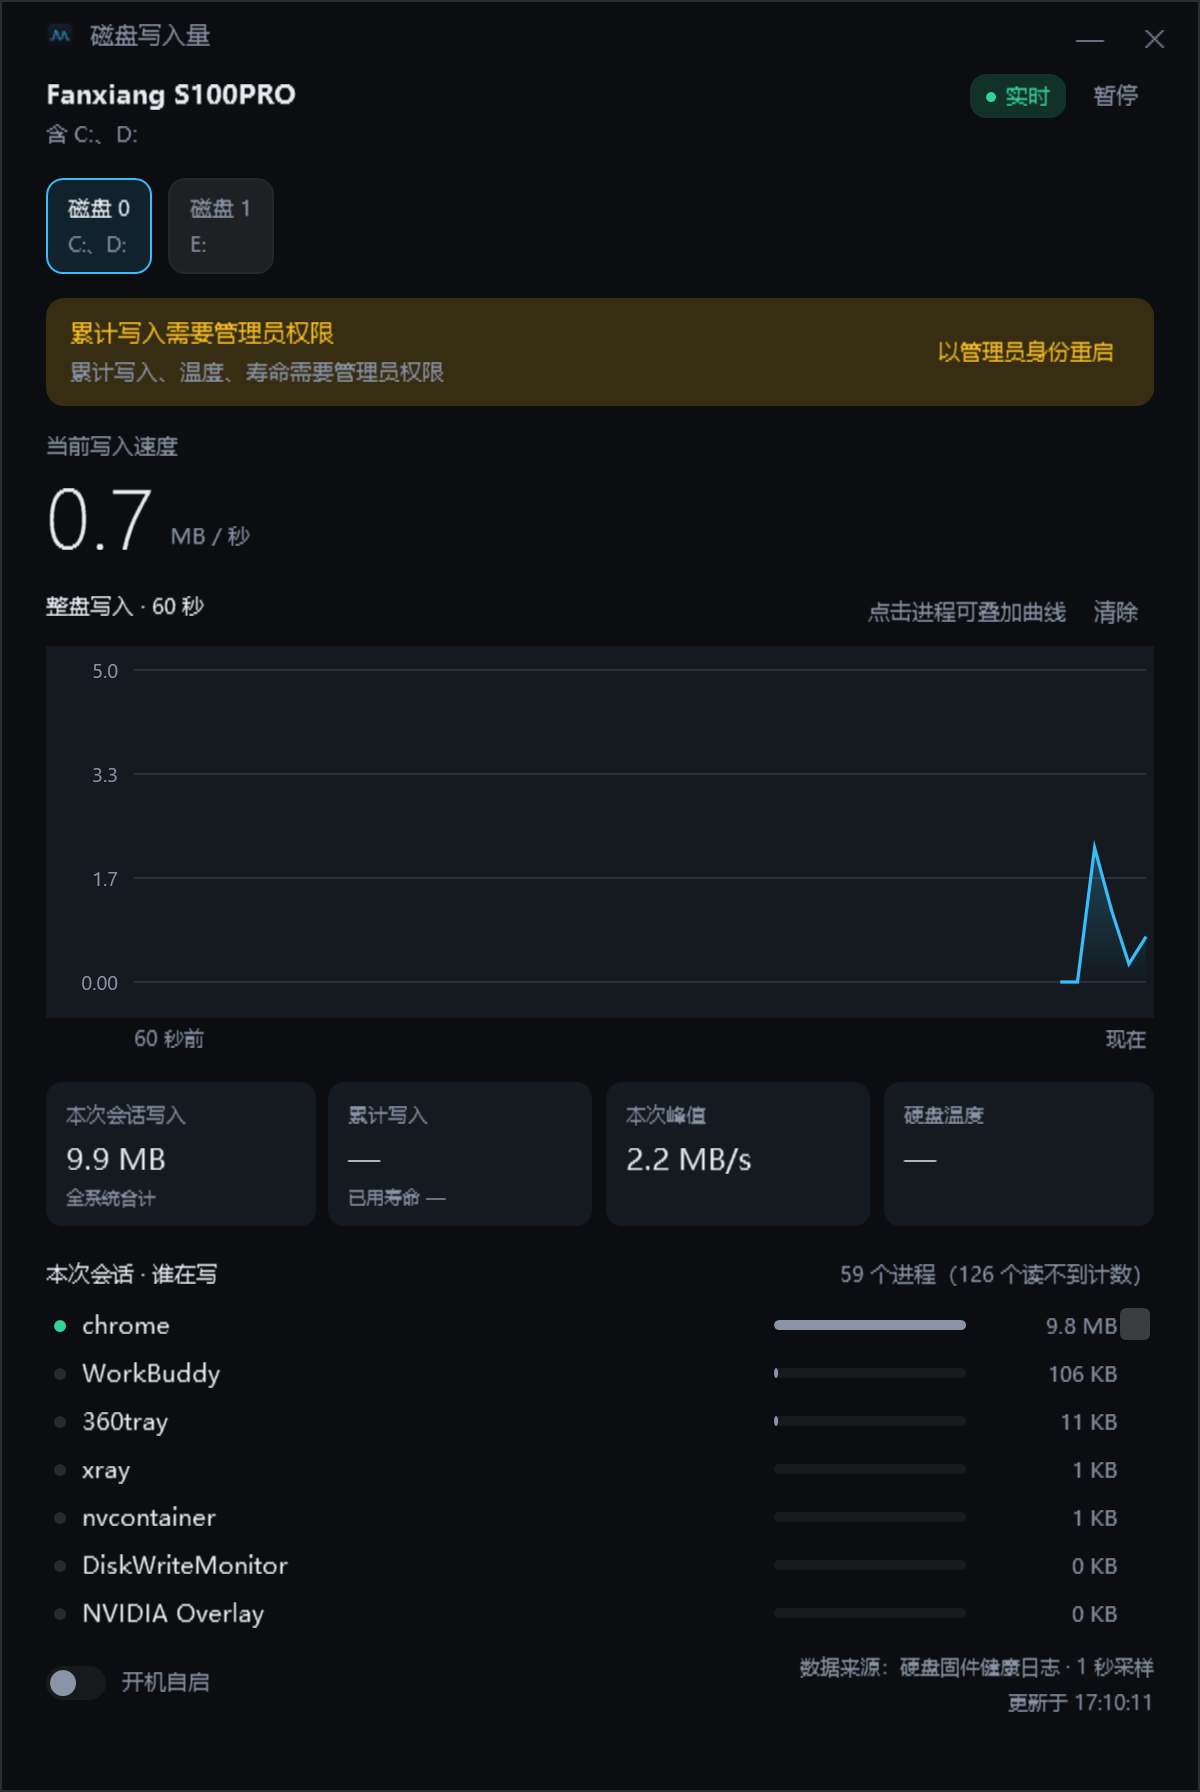
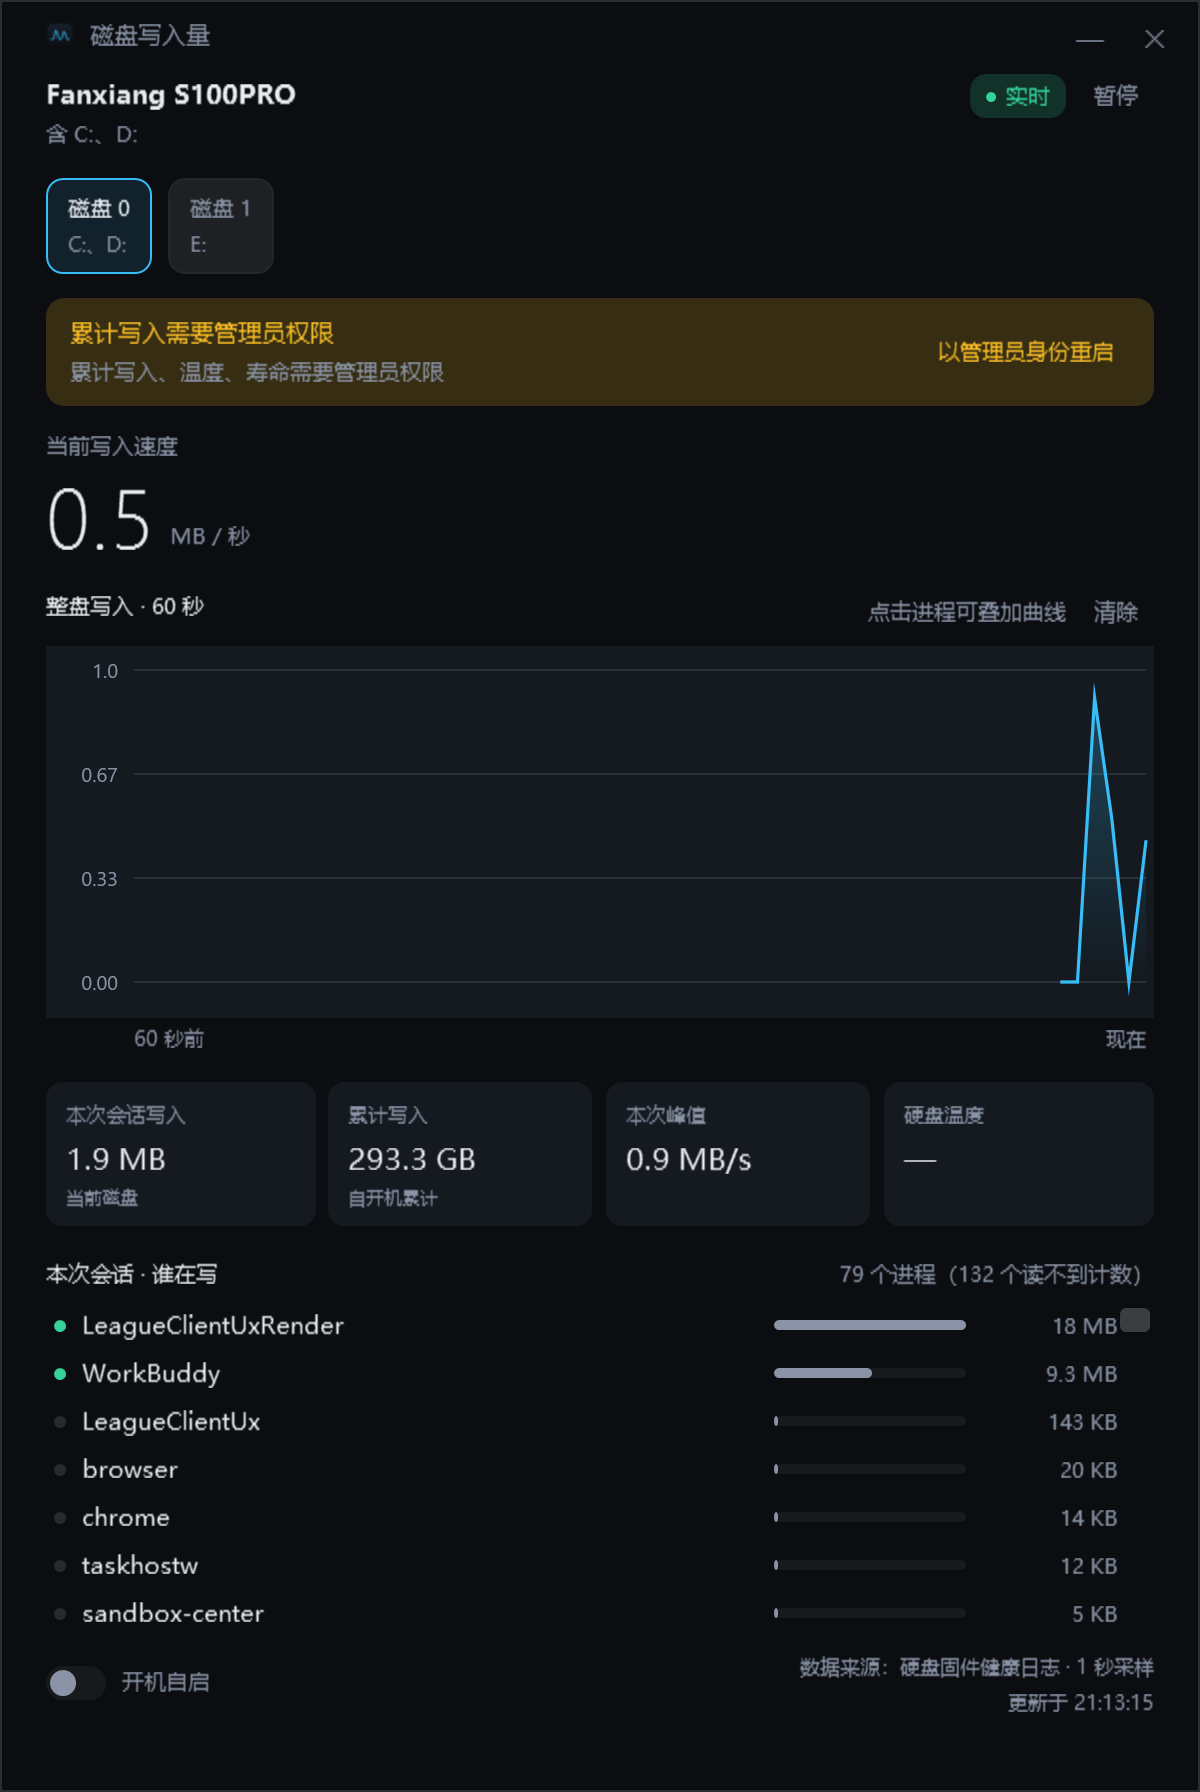
按磁盘精确统计会话写入量
改用 PhysicalDisk 计数器的原始累计字节（PdhGetRawCounterArray 的 FirstValue）做差，
同时得到速率与会话量，取代之前误差 0.5~3 倍的速率积分方案。

- 会话写入量按磁盘分开统计，切换磁盘只换显示对象
- 累计写入在固件值不可信时自动降级显示「自开机累计」
- 修正 PDH_RAW_COUNTER 的 FirstValue 偏移（x64 下为 24，此前误写 16 导致读出垃圾）
- 文档补充实测：进程计数器对 IPC 型进程虚高约 8 倍，不能用于估算磨损

diff --git a/src/DiskWriteMonitor/MainWindow.xaml b/src/DiskWriteMonitor/MainWindow.xaml
@@ -170,7 +170,7 @@
                             <TextBlock Text="累计写入" Style="{StaticResource Caption}" FontSize="10" />
                             <TextBlock Text="{Binding TotalText}" Style="{StaticResource Body}"
                                        FontSize="15" Margin="0,4,0,0" />
-                            <TextBlock Text="{Binding UsedCaption}" Style="{StaticResource Caption}"
+                            <TextBlock Text="{Binding TotalCaption}" Style="{StaticResource Caption}"
                                        FontSize="9" Margin="0,2,0,0" />
                         </StackPanel>
                     </Border>

diff --git a/src/DiskWriteMonitor/Core/WriteMonitor.cs b/src/DiskWriteMonitor/Core/WriteMonitor.cs
@@ -88,7 +88,7 @@ public sealed class WriteMonitor : INotifyPropertyChanged
     private readonly Dictionary<string, ProcRow> _rowCache = new(StringComparer.OrdinalIgnoreCase);
     private readonly List<string> _selected = new();
 
-    /// <summary>本次会话全系统写入字节（Σ 所有进程增量，精确值）</summary>
+    /// <summary>本次会话全系统写入字节（仅在没有按盘数据时兜底）</summary>
     private double _sessionTotalBytes;
 
     /// <summary>每块盘各存一份会话状态，切换磁盘只换显示，不重置任何一块的数据</summary>
@@ -120,12 +120,24 @@ public sealed class WriteMonitor : INotifyPropertyChanged
 
     private sealed class DiskSession
     {
+        /// <summary>本次会话该盘写入字节（由自开机累计字节做差，精确）</summary>
+        public double SessionBytes;
+
+        /// <summary>自开机该盘累计写入字节</summary>
+        public ulong BootBytes;
+
         public double Peak;
         public double LastRate;
         public ulong TotalBytes;
+        public bool FirmwareReliable;
         public int TemperatureC = -1;
         public byte Used;
         public readonly Queue<double> History = new();
+
+        // raw 累计字节的基线，用来算会话量与速率
+        public bool HasRaw;
+        public long RawFirst;
+        public long RawPrev;
     }
 
     private DiskSession Current =>
@@ -201,15 +213,16 @@ public sealed class WriteMonitor : INotifyPropertyChanged
             DiskHealth? health = null;
             if (Disk is not null) health = SmartReader.Read(Disk);
 
-            // 一次采集覆盖所有物理磁盘：所有盘的会话量同时累计，切换时不会断档
+            // 一次采集覆盖所有物理磁盘；raw 是自开机累计字节（精确），rates 仅作兜底
+            var raws = new Dictionary<int, long>();
             var rates = new Dictionary<int, double>();
-            var rateOk = _rateCounter is not null && _rateCounter.TryReadAll(out rates);
+            var rateOk = _rateCounter is not null && _rateCounter.TryReadAll(out raws, out rates);
 
             var procs = ProcessSampler.Snapshot(out var total, out var failed);
             var now = DateTime.Now;
 
             Application.Current?.Dispatcher.BeginInvoke(
-                new Action(() => Apply(health, rateOk, rates, procs, total, failed, now)));
+                new Action(() => Apply(health, rateOk, raws, rates, procs, total, failed, now)));
         }
         catch
         {
@@ -221,13 +234,13 @@ public sealed class WriteMonitor : INotifyPropertyChanged
         }
     }
 
-    private void Apply(DiskHealth? health, bool rateOk, Dictionary<int, double> rates,
-        Dictionary<int, ProcWrite> procs, int total, int failed, DateTime now)
+    private void Apply(DiskHealth? health, bool rateOk, Dictionary<int, long> raws,
+        Dictionary<int, double> rates, Dictionary<int, ProcWrite> procs, int total, int failed, DateTime now)
     {
         var dt = _hasBaseline ? Math.Clamp((now - _prevTime).TotalSeconds, 0.2, 10.0) : 1.0;
         if (dt <= 0) dt = 1.0;
 
-        ApplyDisk(health, rateOk, rates, now, dt);
+        ApplyDisk(health, rateOk, raws, rates, now, dt);
         ApplyProcesses(procs, now, dt, total, failed);
 
         LastUpdateText = "更新于 " + Fmt.Time(now);
@@ -235,20 +248,50 @@ public sealed class WriteMonitor : INotifyPropertyChanged
         RaiseAll();
     }
 
-    private void ApplyDisk(DiskHealth? health, bool rateOk, Dictionary<int, double> rates,
-        DateTime now, double dt)
+    private void ApplyDisk(DiskHealth? health, bool rateOk, Dictionary<int, long> raws,
+        Dictionary<int, double> rates, DateTime now, double dt)
     {
         _prevTime = now;
         _hasBaseline = true;
 
-        if (rateOk)
+        if (rateOk && raws.Count > 0)
         {
-            // 所有盘一起累计：切走再切回来，数字是连续的
+            // 精确路径：自开机累计字节做差，同时得到会话量与速率
+            foreach (var (number, cumulative) in raws)
+            {
+                if (!_sessions.TryGetValue(number, out var each)) continue;
+
+                each.BootBytes = (ulong)cumulative;
+
+                if (!each.HasRaw)
+                {
+                    each.HasRaw = true;
+                    each.RawFirst = cumulative;
+                    each.RawPrev = cumulative;
+                    continue;
+                }
+
+                var delta = cumulative >= each.RawPrev ? cumulative - each.RawPrev : 0;
+                each.RawPrev = cumulative;
+                each.SessionBytes = cumulative >= each.RawFirst ? cumulative - each.RawFirst : 0;
+                each.LastRate = delta / 1e6 / dt;
+                if (each.LastRate > each.Peak) each.Peak = each.LastRate;
+            }
+
+            PushHistory(Current, Current.LastRate);
+
+            StatusLevel = 0;
+            StatusText = "实时";
+        }
+        else if (rateOk && rates.Count > 0)
+        {
+            // 兜底路径：raw 读失败时退回 PDH 的速率，会话量靠积分（精度差，界面会标注）
             foreach (var (number, bytesPerSecond) in rates)
             {
                 if (!_sessions.TryGetValue(number, out var each)) continue;
 
                 each.LastRate = bytesPerSecond / 1e6;
+                each.SessionBytes += bytesPerSecond * dt;
                 if (each.LastRate > each.Peak) each.Peak = each.LastRate;
             }
 
@@ -285,6 +328,7 @@ public sealed class WriteMonitor : INotifyPropertyChanged
             case DiskHealthStatus.Ok:
                 session.TemperatureC = health.TemperatureC;
                 session.Used = health.PercentageUsed;
+                session.FirmwareReliable = health.FirmwareReliable;
                 session.TotalBytes = health.FirmwareReliable ? health.TotalBytes : 0;
                 StatusMessage = health.FirmwareReliable ? string.Empty : health.Message;
                 ShowPermissionBar = false;
@@ -569,13 +613,21 @@ public sealed class WriteMonitor : INotifyPropertyChanged
     public string RateValue => Fmt.Rate(CurrentRate).Value;
     public string RateUnit => Fmt.Rate(CurrentRate).Unit;
 
-    /// <summary>本次会话全系统写入：Σ 所有进程的精确增量，与选中的磁盘无关</summary>
-    public double SessionBytes => _sessionTotalBytes;
+    /// <summary>当前选中磁盘的本次会话写入量（按盘统计，精确）</summary>
+    public double SessionBytes => Current.HasRaw ? Current.SessionBytes : _sessionTotalBytes;
     public string SessionText => Fmt.Bytes(SessionBytes);
-    public string SessionCaption => "全系统合计";
+    public string SessionCaption => Current.HasRaw ? "当前磁盘" : "全系统合计";
 
-    public double TotalBytes => Current.TotalBytes;
+    /// <summary>
+    /// 固件累计写入（出厂至今）。固件值不可信时（如廉价 SATA 盘）退回"自开机累计"，
+    /// 至少还有一个可用的量级参考，而不是显示一串破折号。
+    /// </summary>
+    public double TotalBytes => Current.FirmwareReliable ? Current.TotalBytes : Current.BootBytes;
     public string TotalText => TotalBytes > 0 ? Fmt.Bytes(TotalBytes) : "—";
+
+    public string TotalCaption => Current.FirmwareReliable
+        ? (PercentageUsed > 0 ? $"出厂至今 · 已用寿命 {PercentageUsed}%" : "出厂至今")
+        : "自开机累计";
 
     public string PeakText => Fmt.RateText(Current.Peak);
 
@@ -584,7 +636,11 @@ public sealed class WriteMonitor : INotifyPropertyChanged
 
     public byte PercentageUsed => Current.Used;
     public string UsedText => PercentageUsed > 0 ? PercentageUsed + " %" : "—";
-    public string UsedCaption => PercentageUsed > 0 ? $"已用寿命 {PercentageUsed}%" : "已用寿命 —";
+
+    /// <summary>调试用：每块盘的自开机累计 / 会话量 / 速率，便于和系统计数器对账</summary>
+    public string DiskDebugText => string.Join(" | ", _sessions
+        .OrderBy(kv => kv.Key)
+        .Select(kv => $"d{kv.Key} boot={kv.Value.BootBytes} sess={(long)kv.Value.SessionBytes} rate={kv.Value.LastRate:F3}"));
 
     public string ProcessCountText { get; private set; } = "0 个进程";
 
@@ -609,6 +665,7 @@ public sealed class WriteMonitor : INotifyPropertyChanged
         Raise(nameof(SessionCaption));
         Raise(nameof(TotalBytes));
         Raise(nameof(TotalText));
+        Raise(nameof(TotalCaption));
         Raise(nameof(PeakText));
         Raise(nameof(TemperatureC));
         Raise(nameof(TempText));
@@ -616,7 +673,6 @@ public sealed class WriteMonitor : INotifyPropertyChanged
         Raise(nameof(UsedText));
         Raise(nameof(ProcessCountText));
         Raise(nameof(ProcessSectionTitle));
-        Raise(nameof(UsedCaption));
         Raise(nameof(LastUpdateText));
         Raise(nameof(StatusLevel));
         Raise(nameof(StatusText));

diff --git a/src/DiskWriteMonitor/Core/DiskRateCounter.cs b/src/DiskWriteMonitor/Core/DiskRateCounter.cs
@@ -16,6 +16,22 @@ public sealed class DiskRateCounter : IDisposable
     /// </summary>
     private const uint PdhFmtDouble = 0x00000200;
 
+    /// <summary>
+    /// PDH_RAW_COUNTER_ITEM_W 在 x64 下的布局：
+    ///   szName            offset 0   (8)
+    ///   PDH_RAW_COUNTER   offset 8
+    ///     CStatus         +0  (4)
+    ///     FILETIME        +4  (8)  -> 到 +12
+    ///     FirstValue      +16 (8)  -> 但因为 LONGLONG 要 8 字节对齐，实际在 +16，
+    ///                                 合起来就是 item 内的 offset 24
+    ///     SecondValue     +24
+    ///     MultiCount      +32
+    ///   PDH_RAW_COUNTER 总长 40（含尾部对齐），所以 item 步长 = 8 + 40 = 48
+    /// 上一版把 FirstValue 写成 offset 16（即 TimeStamp 区域），读出来自然是垃圾。
+    /// </summary>
+    private const int RawItemStride = 48;
+    private const int RawFirstValueOffset = 24;
+
     private IntPtr _query;
     private IntPtr _counter;
     private readonly bool _ready;
@@ -34,16 +50,43 @@ public sealed class DiskRateCounter : IDisposable
     public bool IsReady => _ready;
 
     /// <summary>
-    /// 一次采集拿回所有物理磁盘的写入速率（字节/秒），键为磁盘号。
-    /// 所有盘同时采集，切换磁盘时各盘的会话累计才不会断档。
-    /// 注：会话累计量由速率 × 时间间隔积分得到，1 秒采样下持续写入准确，
-    /// 极短的写入爆发可能少计 —— 这是 perfmon 速率计数器本身的粒度限制。
+    /// 一次采集同时给出两套数据：
+    ///   cumulative —— 自开机累计写入字节（raw FirstValue，精确，做差即得速率和会话量）
+    ///   rates      —— PDH 算好的字节/秒（raw 读失败时兜底）
     /// </summary>
-    public bool TryReadAll(out Dictionary<int, double> rates)
+    public bool TryReadAll(out Dictionary<int, long> cumulative, out Dictionary<int, double> rates)
     {
+        cumulative = new Dictionary<int, long>();
         rates = new Dictionary<int, double>();
         if (!_ready) return false;
         if (PdhCollectQueryData(_query) != 0) return false;
+
+        // ---- 原始累计字节（精确来源）----
+        var rawSize = 0u;
+        PdhGetRawCounterArrayW(_counter, ref rawSize, out _, IntPtr.Zero);
+        if (rawSize > 0)
+        {
+            var rawBuffer = Marshal.AllocHGlobal((int)rawSize);
+            try
+            {
+                if (PdhGetRawCounterArrayW(_counter, ref rawSize, out var rawCount, rawBuffer) == 0)
+                {
+                    for (var i = 0; i < rawCount; i++)
+                    {
+                        var item = rawBuffer + i * RawItemStride;
+                        var name = Marshal.PtrToStringUni(Marshal.ReadIntPtr(item)) ?? string.Empty;
+                        if (!TryParseDiskNumber(name, out var number)) continue;
+
+                        var first = Marshal.ReadInt64(item, RawFirstValueOffset);
+                        if (first > 0 && first < long.MaxValue / 2) cumulative[number] = first;
+                    }
+                }
+            }
+            finally
+            {
+                Marshal.FreeHGlobal(rawBuffer);
+            }
+        }
 
         // 第一次调用只用来探查需要多大缓冲，必然返回 PDH_MORE_DATA，不能当成失败
         var size = 0u;
@@ -75,8 +118,12 @@ public sealed class DiskRateCounter : IDisposable
             Marshal.FreeHGlobal(buffer);
         }
 
-        return rates.Count > 0;
+        return cumulative.Count > 0 || rates.Count > 0;
     }
+
+    [DllImport("pdh.dll", CharSet = CharSet.Unicode)]
+    private static extern uint PdhGetRawCounterArrayW(
+        IntPtr counter, ref uint bufferSize, out uint itemCount, IntPtr buffer);
 
     /// <summary>实例名形如 "0 c: d:"、"1 e:"、"_total"，取空格前那段转成磁盘号。</summary>
     private static bool TryParseDiskNumber(string instanceName, out int number)

diff --git a/src/DiskWriteMonitor/App.xaml.cs b/src/DiskWriteMonitor/App.xaml.cs
@@ -153,7 +153,8 @@ public partial class App : Application
                 "  peak=" + _monitor?.PeakText +
                 "  temp=" + _monitor?.TempText +
                 "  total=" + _monitor?.TotalText,
-                "rates(MB/s)=" + _monitor?.RateHistoryText
+                "rates(MB/s)=" + _monitor?.RateHistoryText,
+                "disks=" + _monitor?.DiskDebugText
             };
 
             if (_monitor is not null)

diff --git a/README.md b/README.md
@@ -19,16 +19,20 @@
 
 | 指标 | Windows 实现 | 口径 | 需要管理员 |
 | --- | --- | --- | --- |
-| 速率 / 本次会话 / 峰值 | PDH `\PhysicalDisk(*)\Disk Write Bytes/sec` | OS 层写请求量 | 否 |
+| 速率 / 本次会话 / 峰值 | 读取 `PhysicalDisk` 的**原始累计字节**（`PdhGetRawCounterArray`），做差得到速率与会话量 | **该盘真实写入字节**（按磁盘分开统计） | 否 |
+| 自开机累计 | 同上（原始累计值的绝对值） | 自开机以来该盘写入总量 | 否 |
 | 累计写入（出厂至今） | NVMe 健康日志 / SATA SMART 属性 241 | 硬盘固件记录的落盘量 | 是 |
 | 温度 / 寿命 | 同上 | 固件传感器 | 是 |
-| 各进程写入量 | `GetProcessIoCounters` 的 `WriteTransferCount` | 系统收到的写请求量 | 否（但提权能看到更多进程） |
+| 各进程写入量 | `GetProcessIoCounters` 的 `WriteTransferCount` | 系统收到的**写请求量，含管道与套接字** | 否（但提权能看到更多进程） |
 
-两个注意点：
+三个关键点：
 
-1. **不改用 `IOCTL_DISK_PERFORMANCE`**：实测在物理磁盘句柄上会被拒，而 PDH 同权限可读。
-2. **进程之和会远大于盘级速率**：`WriteTransferCount` 含管道、套接字、控制台写入，
-   写回缓存还会放大。macOS 版是「进程之和 < 盘级总量」，Windows 恰好相反，属接口差异。
+1. **速率与会话量是字节级精确的**：不用「速率 × 时间」积分，而是读系统维护的自开机累计字节再做差，
+   所以短促爆发也不会漏算或多算。
+2. **按磁盘分开统计**：每块盘的会话写入量互相独立，切换磁盘只是换显示对象。
+3. **进程排行口径不同，会显著虚高**：`WriteTransferCount` 把管道/IPC 写入也计入。
+   实测 `nvcontainer` 某次 2 分钟"写入"790 MB，同期整块盘所有进程实际落盘仅 94 MB —— 约 12%。
+   所以进程排行适合**找嫌疑人**，不适合**估算磨损**。判断磨损请看盘级累计写入。
 
 ## 下载与安装
 
